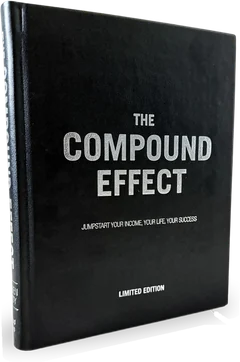
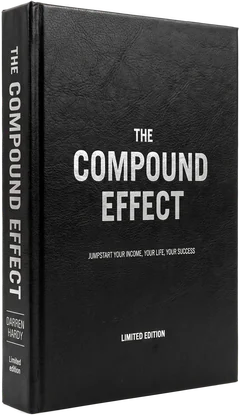
TCEB pre-print mock: approved leatherbound edition image (correct proportions)

diff --git a/tce-mocks/pre-print/index.html b/tce-mocks/pre-print/index.html
@@ -193,7 +193,7 @@ a{color:inherit}
             <li><b>Your headshot</b> printed in the book.<br><span class="limit">Limited to 100.</span></li>
           </ul>
           <div class="collector">
-            <img class="collector-img" src="tce-leather-edition-240.webp" width="240" height="362" alt="The Compound Effect leatherbound collector's edition, signed and numbered" loading="lazy">
+            <img class="collector-img" src="tce-leather-edition-240.webp?v=2" width="240" height="416" alt="The Compound Effect leatherbound collector's edition, signed and numbered" loading="lazy">
             <div>
               <p><b>PLUS, receive a rare limited-edition leatherbound collector's edition of the first book:</b> The Compound Effect: Jumpstart Your Income, Your Life, Your Success.</p>
               <p>Personally signed and numbered by Darren. Only 500 ever produced.</p>
